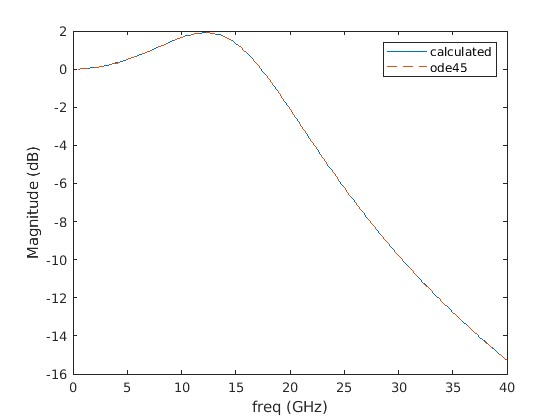
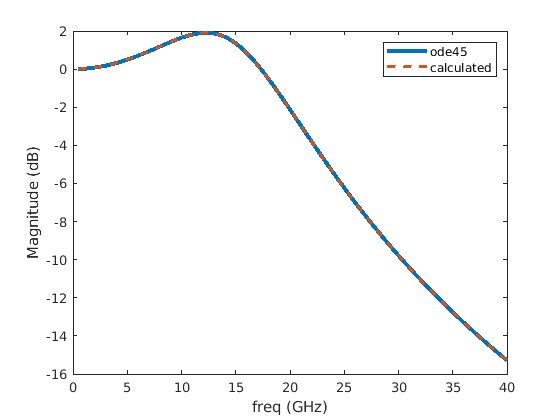
updating documentation, updating plotting ranges and style in code to match README file

diff --git a/test_density_steady_state.m b/test_density_steady_state.m
@@ -16,16 +16,16 @@ tSpan = [0 2e-9];
 % plot results
 figure;
 subplot(2,1,1);
-plot(T45/1e-9,Y45(:,1));
+plot(T45/1e-9,Y45(:,1),'-','LineWidth',2);
 hold on
-plot([T45(1); T45(end)]/1e-9, [carrierDen;carrierDen],'--')
+plot([T45(1); T45(end)]/1e-9, [carrierDen;carrierDen],'--','LineWidth',2)
 xlabel('time(ns)')
 ylabel('carrier density')
 legend({'ode45', 'calculated'})
 subplot(2,1,2); 
-plot(T45/1e-9,Y45(:,2))
+plot(T45/1e-9,Y45(:,2),'-','LineWidth',2);
 hold on
-plot([T45(1); T45(end)]/1e-9, [photonDen;photonDen], '--')
+plot([T45(1); T45(end)]/1e-9, [photonDen;photonDen], '--','LineWidth',2)
 xlabel('time(ns)')
 ylabel('photon density')
 legend({'ode45', 'calculated'})

diff --git a/test_PAM2.m b/test_PAM2.m
@@ -12,7 +12,7 @@ laser_gen1.beta = 2e-6;
 laser_gen1.omegaP = 20e9*2*pi;
 
 % drive current parameters
-num_bits = 200;
+num_bits = 100;
 bit_rate = 40e9;
 samp_per_symbol = 16;
 bias_current = 4e-3;
@@ -45,9 +45,11 @@ xlabel('time (ns)')
 yyaxis right
 plot(t_span/1e-9,laser_gen1.I(1:end))
 ylabel('drive current (mA)')
+legend({'photon density', 'filtered drive current'})
 
 subplot(2,1,2);
 plot(t_span,drive_current);hold on
 plot(t_span,laser_gen1.I(1:end))
 xlabel('time(ns)')
 ylabel('current(mA)')
+legend({'Ideal drive current', 'Filtered drive current'})

diff --git a/test_param_extract_bw.m b/test_param_extract_bw.m
@@ -36,8 +36,8 @@ freqYOpt = get_freq_resp(laserOptNew,freqX);
 
 % plot original vs extracted freq. resp.
 figure;
-plot(freqX/1e9,freqY,'-','LineWidth',3);hold on;
-plot(freqX/1e9,freqYOpt,'--','LineWidth',3)
+plot(freqX/1e9,freqY,'-','LineWidth',2);hold on;
+plot(freqX/1e9,freqYOpt,'--','LineWidth',2)
 legend({'Original', 'Extracted'})
 xlabel('Frequency (GHz)')
 ylabel('Mag (dB)')

diff --git a/test_freq_resp.m b/test_freq_resp.m
@@ -16,8 +16,8 @@ freqY = get_freq_resp(laser,freqX);
 
 % plot results
 figure;
-plot(freqX/1e9, freqY); hold on
-plot(freqX/1e9, transferFunction, '--');
+plot(freqX/1e9, transferFunction,'-','LineWidth',3); hold on
+plot(freqX/1e9, freqY,'--','LineWidth',2);
 xlabel('freq (GHz)')
 ylabel('Magnitude (dB)')
-legend({'calculated', 'ode45'})
+legend({'ode45','calculated'})

diff --git a/README.md b/README.md
@@ -4,8 +4,8 @@ Carrier and photon density rate equations solved in MATLAB
 
 ## Features 
 
-Able to extract laser parameters from measured and simulated data\
-Rate equations are linearized in order to speed up calculations\
+Able to extract laser parameters from measured and simulated data\ 
+Rate equations are linearized in order to speed up calculations\ 
 
 ## Test Cases
 
@@ -15,6 +15,8 @@ test_rate_eqn_density.m - test case to ensure linearized and numerically solved 
 test_freq_resp.m - test case to ensure that the small signal frequency response for the linearized set of laser rate equations is equivalent to ode45\
 ![](doc/fig/freq_resp.jpg)
 
-test_param_extract_bw.m  test case to vrify correct parameter extraction of laser frequency response\
+test_param_extract_bw.m  test case to verify correct parameter extraction of laser frequency response\
+![](doc/fig/freq_resp.jpg)
 
 test_PAM2.m - visual test case to inspect drive current and time domain characteristic when directly modulating lasers\
+![](doc/fig/freq_resp.jpg)
